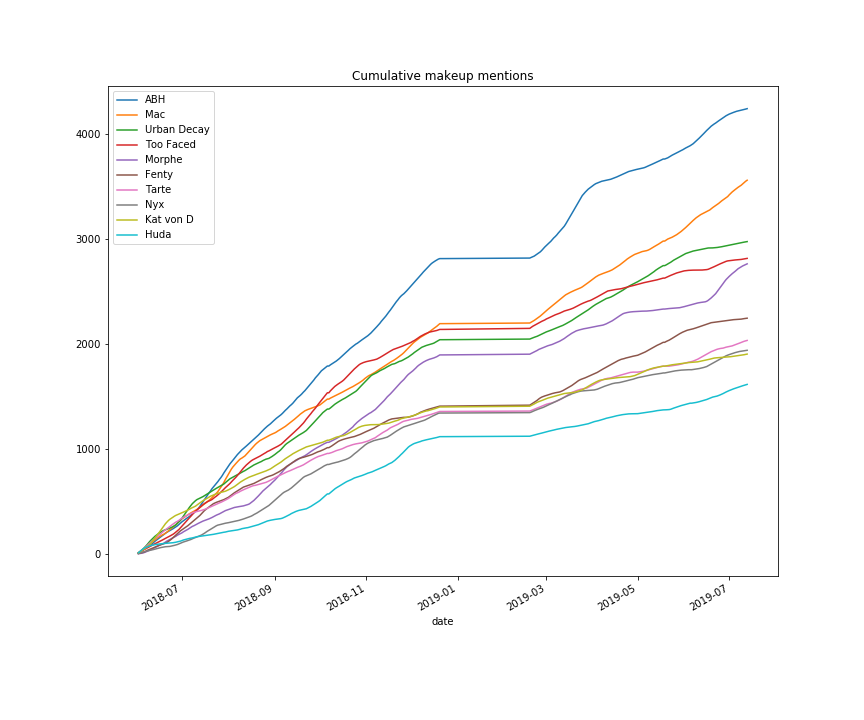
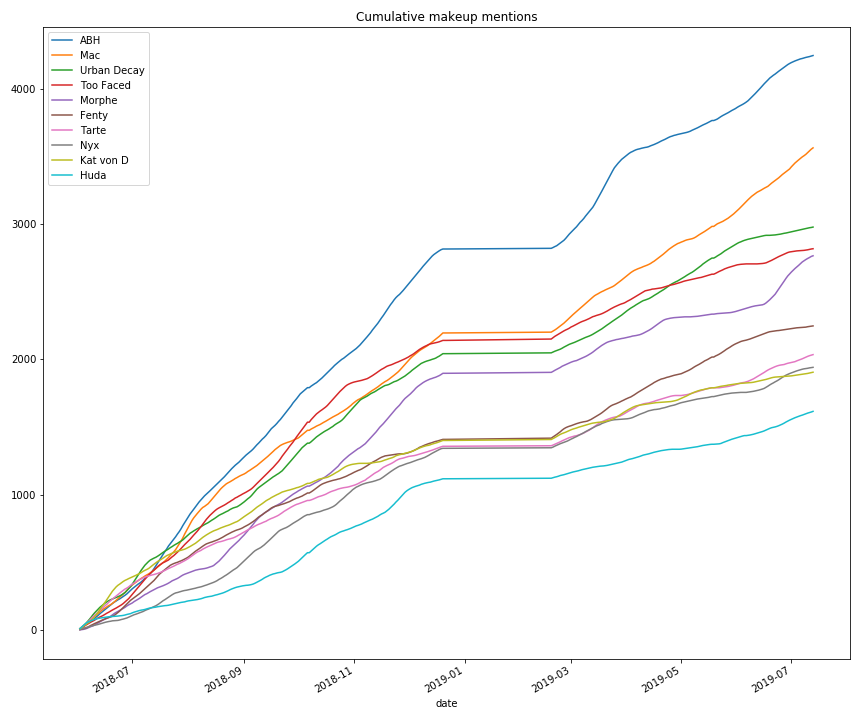
update graphs and tables

diff --git a/_sass/_layout.scss b/_sass/_layout.scss
@@ -111,6 +111,20 @@ footer {
 	padding: 40px;
 }
 
+table{
+	width: 100%;
+	border-collapse: collapse;
+}
+
+tr{
+	border: 1px solid #999;
+}
+
+td, th{
+	padding-left: 10px;
+	padding-right: 10px;
+}
+
 .instatablestyle {
 	border-collapse: collapse;
 

diff --git a/_posts/2019-08-3-makeup-visualization.md b/_posts/2019-08-3-makeup-visualization.md
@@ -14,8 +14,10 @@ Here's what I've found:
 ### The Top Fifteen
 
 The top most-often discussed brands on r/MakeupAddiction from June 2018 to August 2019 were: 
+
+
 | Rank | Brand                   | Total Mentions |
-|------|-------------------------|----------------|
+|:-----|:----------------------- |---------------:|
 | 1    | Anastasia Beverly Hills | 4244           |
 | 2    | Mac                     | 3562           |
 | 3    | Urban Decay             | 2977           |
